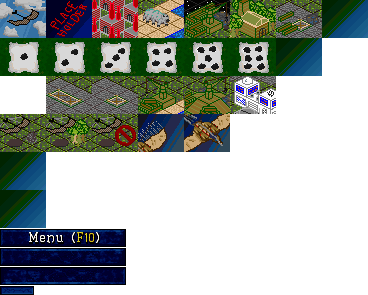
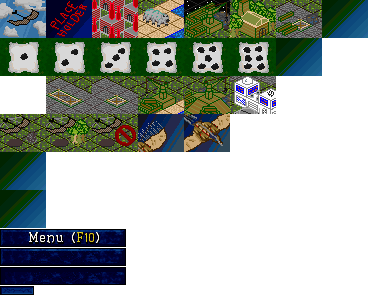
panel toggle

Changed region(s): [[0.0, 0.9153, 0.3587, 0.9763]]

diff --git a/game_scripts/game_ui.py b/game_scripts/game_ui.py
@@ -1,6 +1,8 @@
 from functools import partial
 
+
 import pygame as pg
+import pygame_gui
 from blinker import signal
 from pygame.rect import Rect
 from pygame_gui.elements import UIImage
@@ -10,6 +12,7 @@ from game_scripts.context_panel import ContextPanel
 from scripts.custom_sprites import integer_scale, ninepatchscale, tilingscale
 from scripts.ui_shim import UIButton, UIPanel
 from scripts.utils import load_image, sheet_to_sprite
+from pygame_gui.core.utility import get_default_manager
 
 
 class MainUI:
@@ -29,10 +32,12 @@ class MainUI:
         ui_components_sheet = load_image("art/ui_components.png")
         ui_background_sprite = sheet_to_sprite(ui_components_sheet, Rect(0, 0, 60, 62))
 
+        self.main_menu = None
+
         # ------- base elements -------
 
         self.active_panel = None
-        # TODO: Be more consistent here.
+
         self.menu_button = UIButton(
             pg.Rect(-126, 0, 126, 18),
             "Menu",
@@ -42,8 +47,10 @@ class MainUI:
                 "top": "top",
                 "bottom": "top",
             },
-            object_id="#menu_button"
+            object_id="#menu_button",
+            command=self.toggle_main_menu,
         )
+
         self.portrait_panel = UIPanel(
             pg.Rect(
                 0,
@@ -125,6 +132,20 @@ class MainUI:
                 scale_func=integer_scale,
                 container=self.portrait_panel,
                 command=lambda: sender.unselect(sender.selected.sprites()[0]),
+            )
+
+    def toggle_main_menu(self):
+        if self.main_menu:
+            self.main_menu.kill()
+            self.main_menu = None
+        else:
+            self.main_menu = UIPanel(
+                Rect(0, 0, 150, 100),
+                element_id="#panel_background",
+                scale_func=tilingscale,
+                anchors={
+                    "center": "center",
+                },
             )
 
     def set_context_panel(self, commander: Commander):
